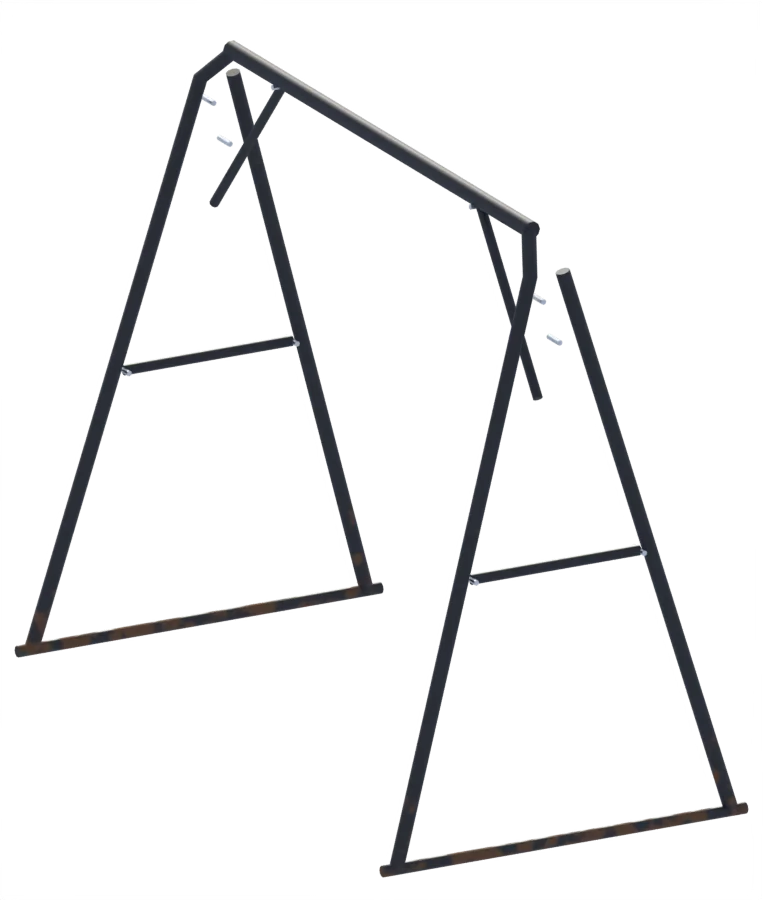
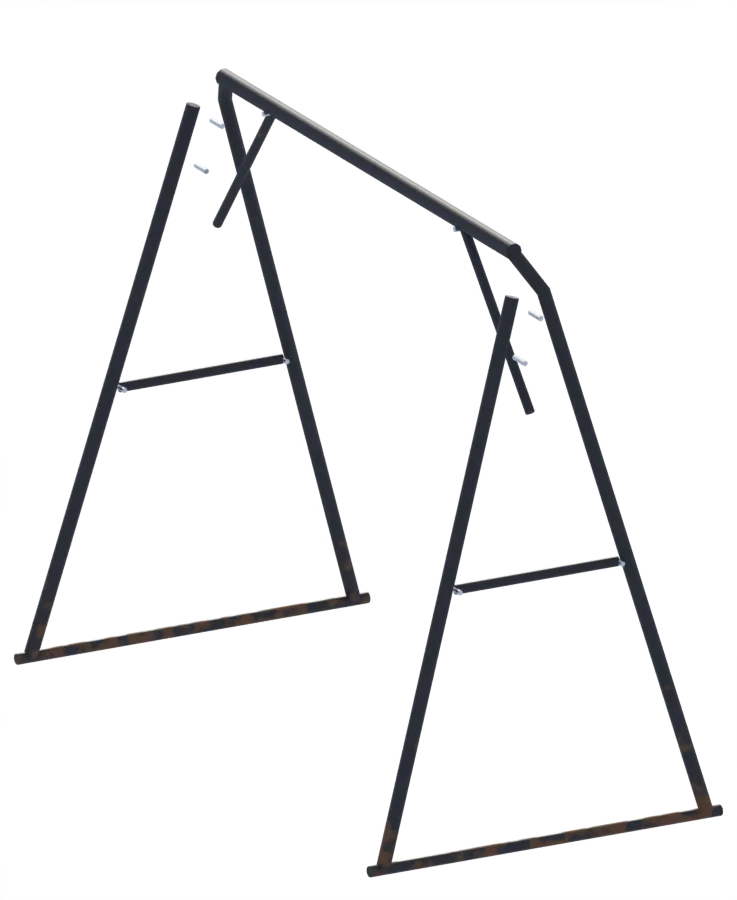
fix: swing rendered turned around instead of mirrored

Changed region(s): [[0.0, 0.0311, 0.9362, 0.9022], [0.4993, 0.84, 0.9674, 0.9644]]

diff --git a/src/app/public/js/white-rabbit-world.js b/src/app/public/js/white-rabbit-world.js
@@ -596,12 +596,12 @@ export function createWorld({ scene, touch }) {
     return mesh;
   };
   // On the concrete in line with the greenhouse and the trellis square, just past the square toward the
-  // house, with its riders facing left (both cards mirrored); it swings left and right
-  const SWING = [-14.9, GROUND, (GREEN.z0 + GREEN.z1) / 2 + 0.6], SWING_TO = [14.8, 0, 8.0], SW = 2.48 * 1.04, SH = 2.92, PIVOT = 0.848 * SH;
-  sprite("/media/white-rabbit/yard-swing.webp", SW, SH, SWING, SWING_TO).scale.x = -1;
+  // house, with its riders facing left (rendered turned around, frame and seat together); it swings left and right
+  const SWING = [-14.5, GROUND, (GREEN.z0 + GREEN.z1) / 2 + 0.6], SWING_TO = [14.8, 0, 8.0], SW = 2.48 * 1.04, SH = 3.02, PIVOT = 0.812 * SH;
+  sprite("/media/white-rabbit/yard-swing.webp", SW, SH, SWING, SWING_TO);
   const hinge = new T.Group(); hinge.position.set(SWING[0], SWING[1] + PIVOT, SWING[2]); hinge.rotation.y = Math.atan2(SWING_TO[0], SWING_TO[2]); keep(hinge);
   const seat = new T.Group(); hinge.add(seat);
-  sprite("/media/white-rabbit/yard-swing-seat.webp", SW, SH, [0, -PIVOT, 0.01], null, 0, seat).scale.x = -1;
+  sprite("/media/white-rabbit/yard-swing-seat.webp", SW, SH, [0, -PIVOT, 0.01], null, 0, seat);
   // The garden was rendered square on to its row and lies along it (the back fence), so both its ends
   // stand at their true depths from any view
   sprite("/media/white-rabbit/yard-garden.webp", 17.04, 2.99, [(BED[0] + BED[1]) / 2, GROUND - 0.32, (BED[2] + BED[3]) / 2 + 0.17], [1, 0, 0], 1);   // set into the soil
